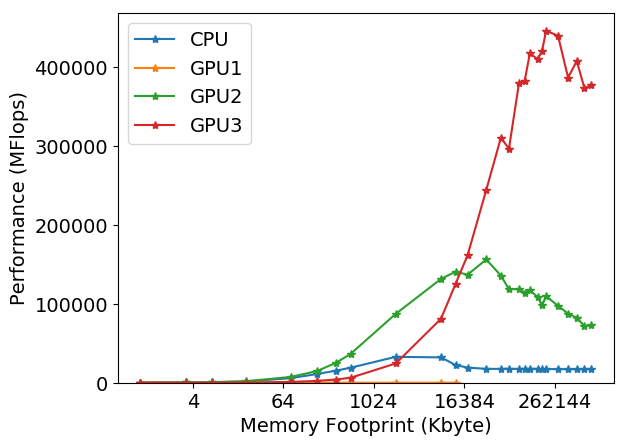
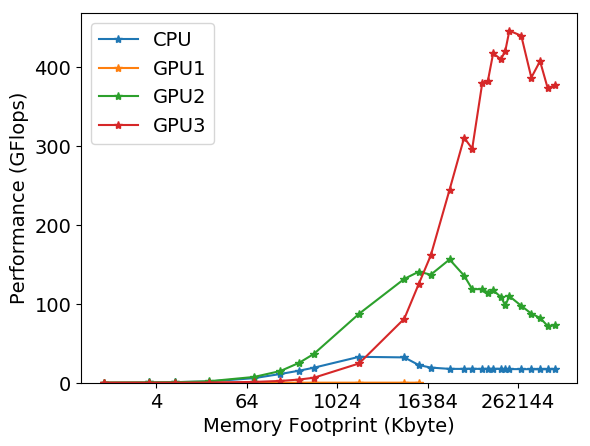
Change to vizfun.py

diff --git a/poisson/data/vizfun.py b/poisson/data/vizfun.py
@@ -19,6 +19,10 @@ df4 = pd.read_csv("statfun_poisson_gpu3.dat",delim_whitespace=True,header=None,n
 df4 = df4.loc[(df4['Size'] >= 10) & (df4['Size'] <= 10000)]
 
 plt.figure()
+df1["MFlops"]=df1["MFlops"]/1000
+df2["MFlops"]=df2["MFlops"]/1000
+df3["MFlops"]=df3["MFlops"]/1000
+df4["MFlops"]=df4["MFlops"]/1000
 df1.set_index("Memory", inplace=True)
 df2.set_index("Memory", inplace=True)
 df3.set_index("Memory", inplace=True)
@@ -29,7 +33,7 @@ df3["MFlops"].plot(legend=True, style ='*-',ax=ax)
 df4["MFlops"].plot(legend=True, style ='*-',ax=ax)
 plt.legend(["CPU","GPU1","GPU2","GPU3"],loc='upper left')
 plt.xlabel('Memory Footprint (Kbyte)')
-plt.ylabel('Performance (MFlops)')
+plt.ylabel('Performance (GFlops)')
 plt.gca().set_ylim(bottom=0)
 plt.xscale('log',basex=4)
 #plt.yscale('log',basey=2)
